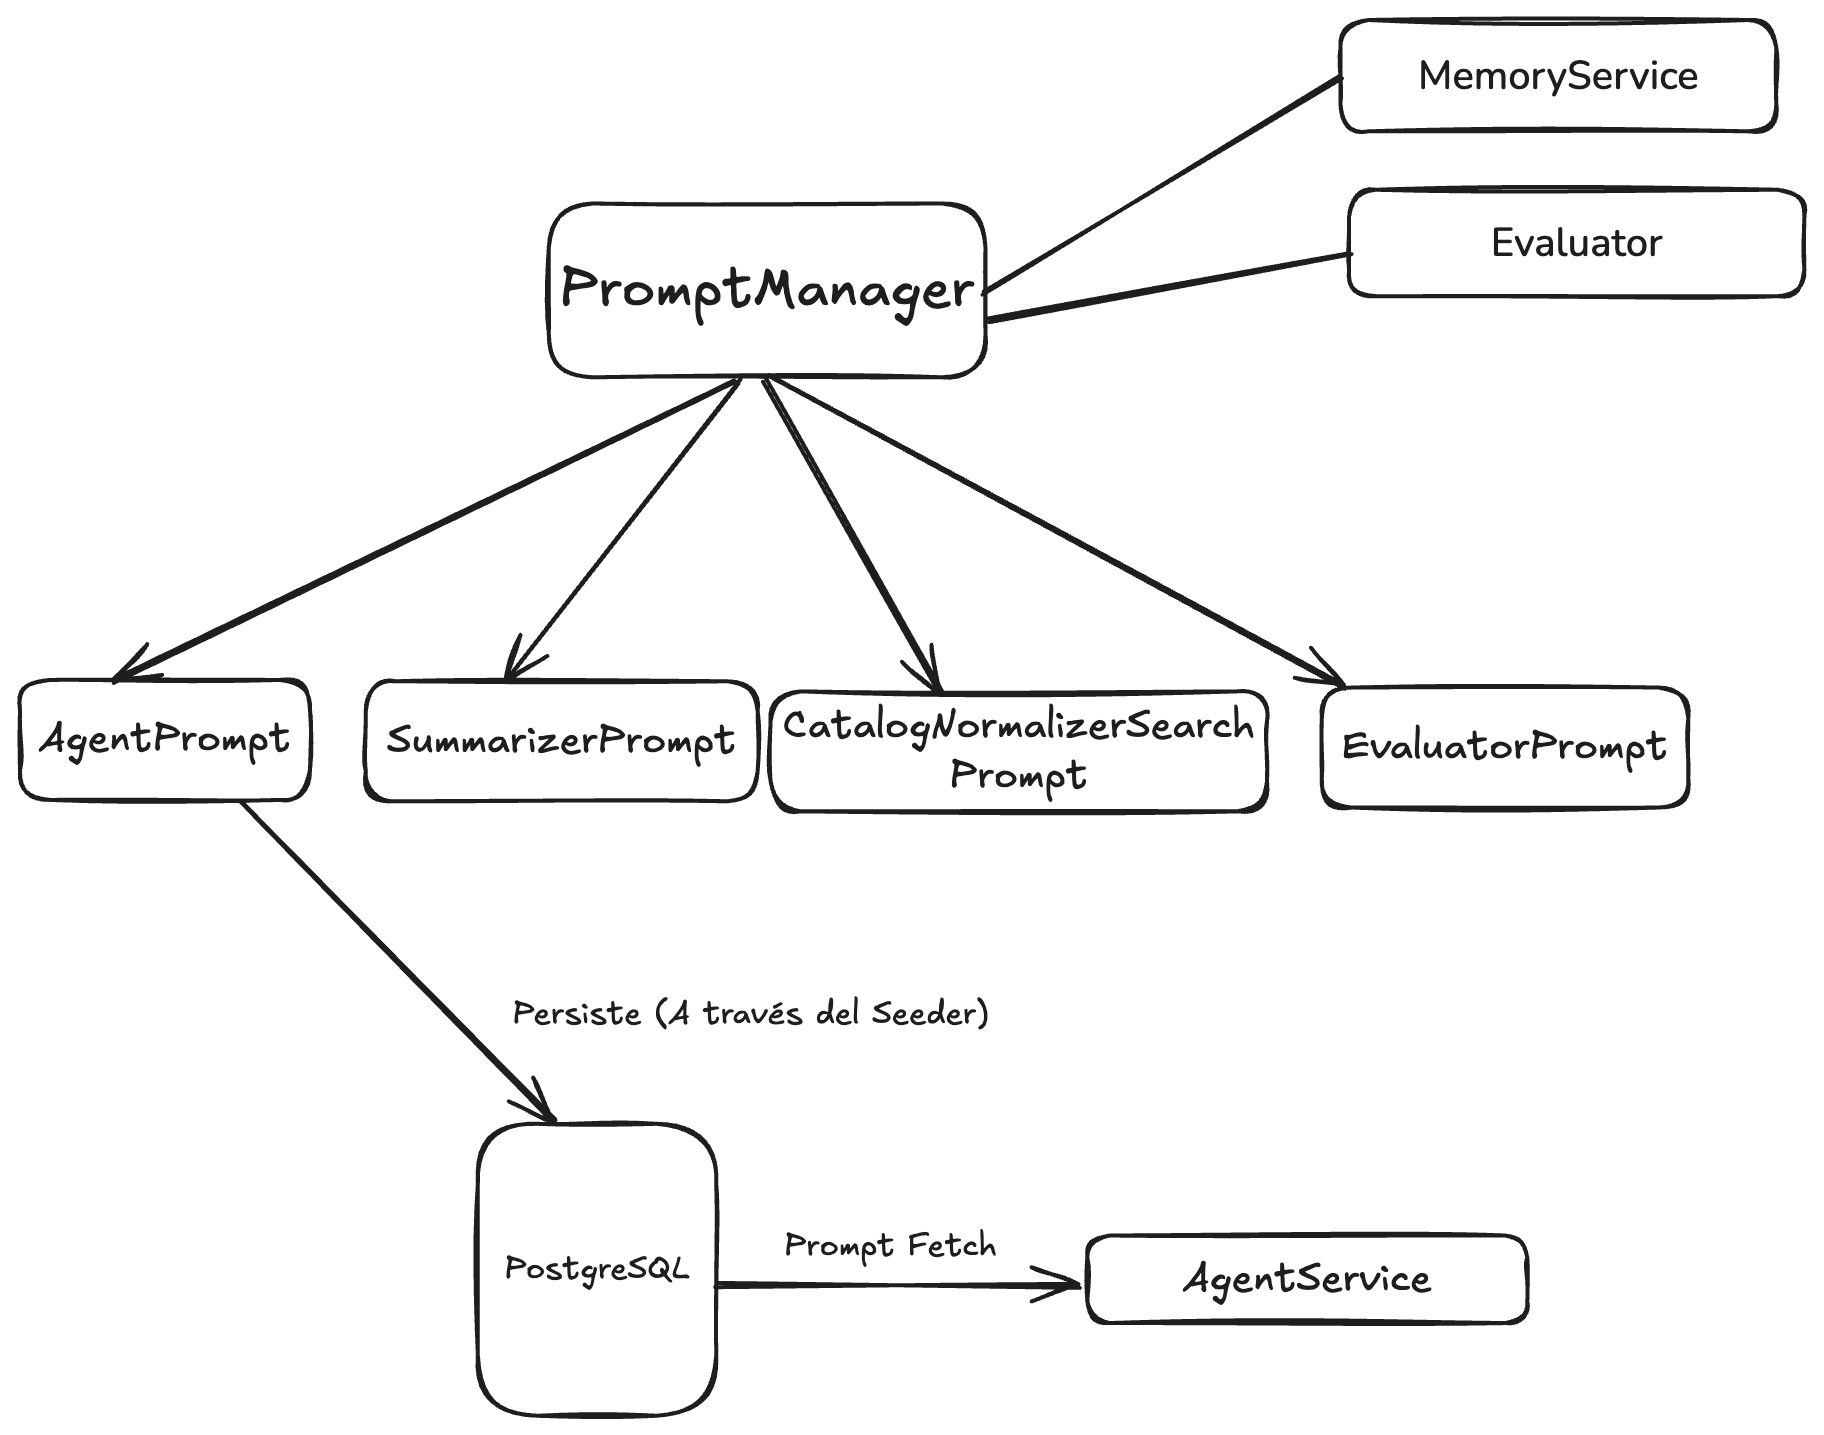
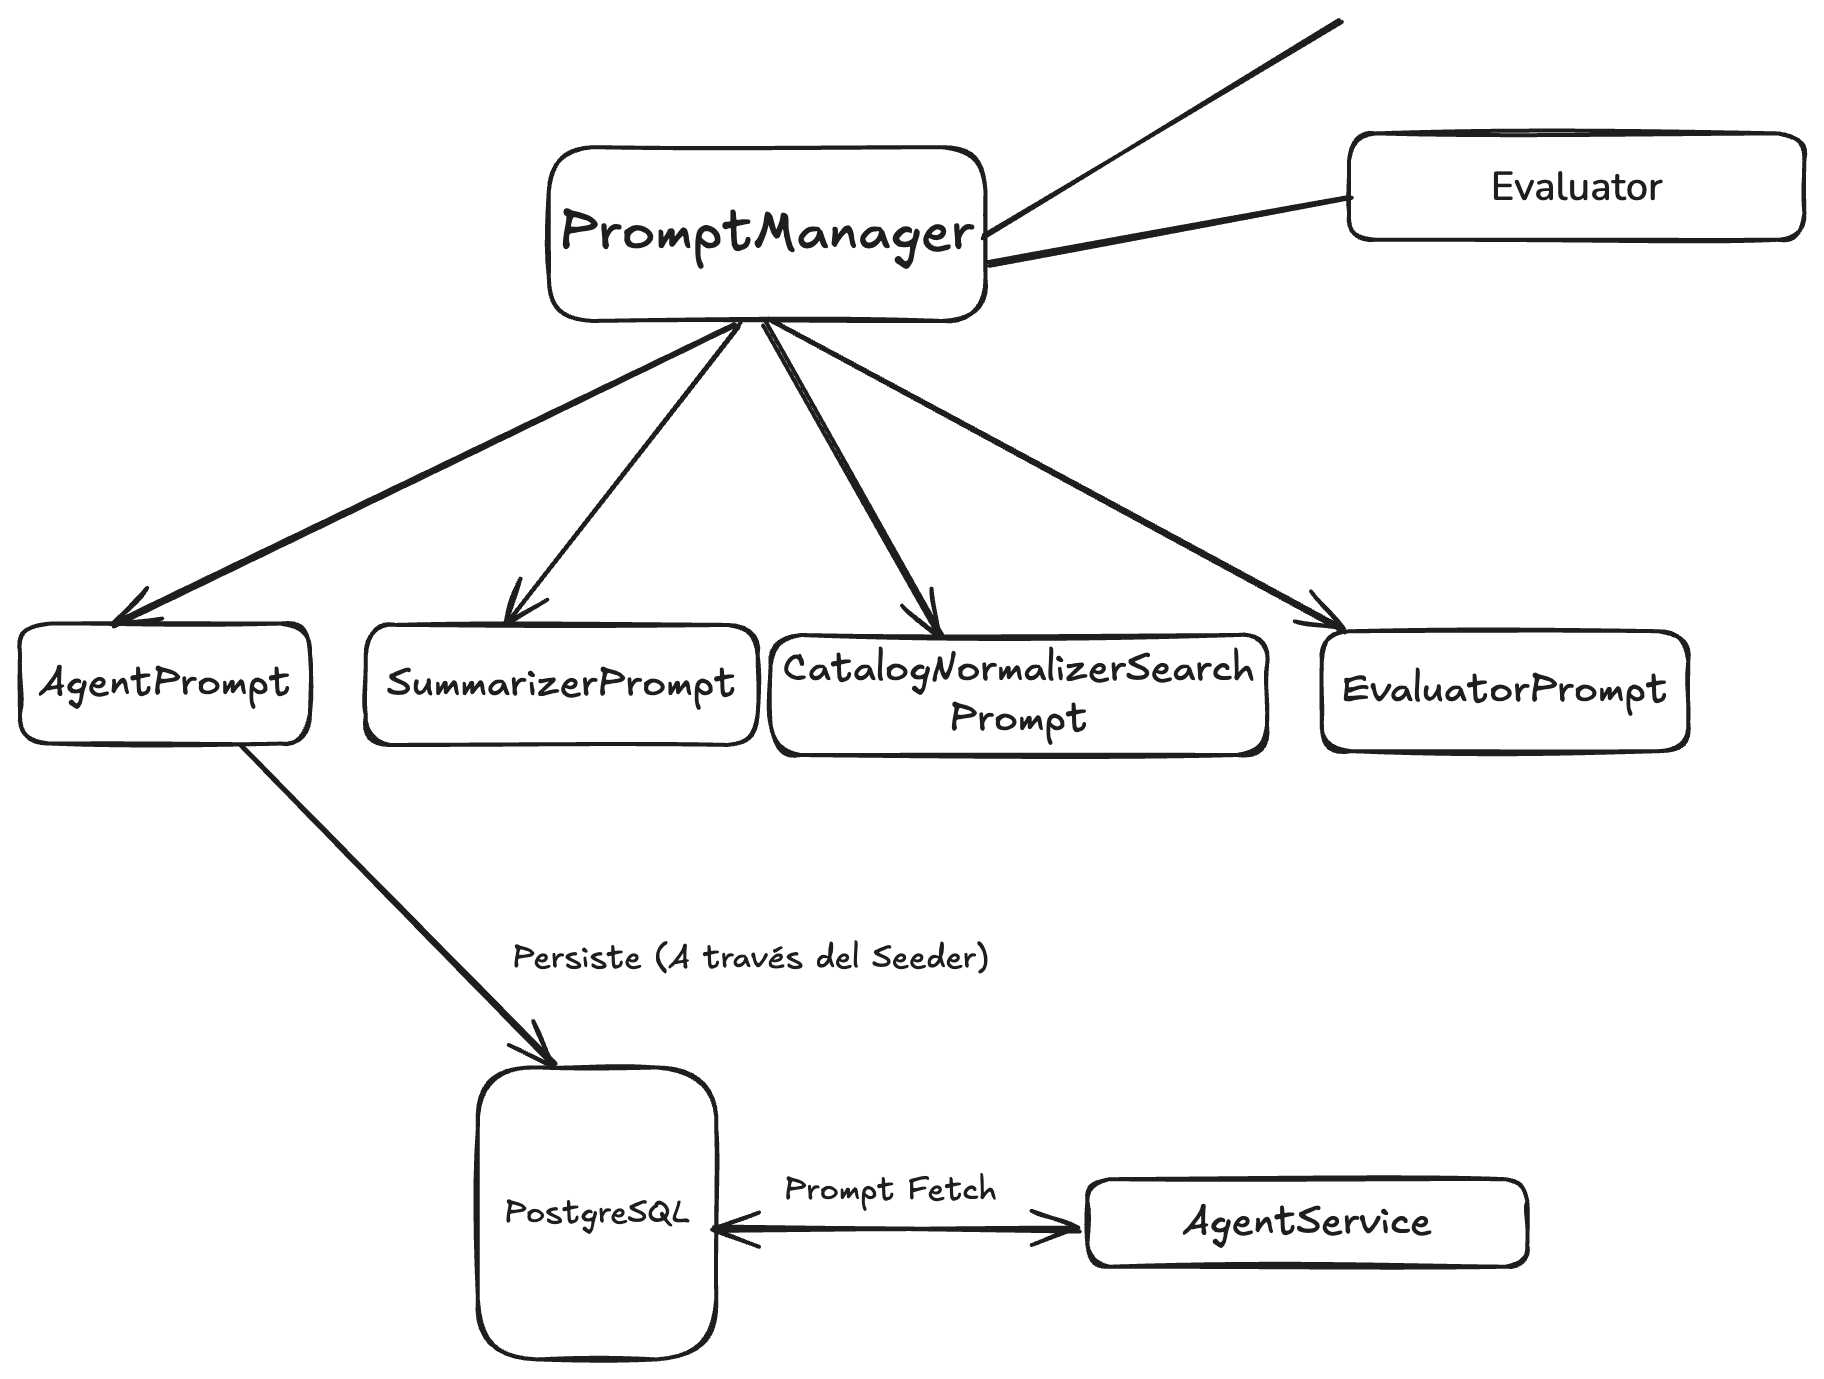
- update env.example - update docker-compose - update prompt doagrams

diff --git a/kavak_chatbot/scripts/kavak_info_ingestion.py b/kavak_chatbot/scripts/kavak_info_ingestion.py
@@ -59,8 +59,9 @@ def run_kavak_info_ingestion():
         except Exception as e:
             logger.error(f"Error storing chunk {i+1}: {e}")
 
-    logger.info("Extraction complete!")
+    print("Extraction complete!")
 
     # Display summary
     all_records = kavak_service.get_all_kavak_info()
     logger.info(f"Total records in database: {len(all_records)}")
+    print(f"Total records in database: {len(all_records)}")

diff --git a/README.md b/README.md
@@ -15,13 +15,36 @@ A continuación presento los diagramas principales que describen la arquitectura
 ![Prompts Diagram](diagrams/prompts_diagram.png)
 
 
+## Variables de Entorno (env.example)
+
+Asegúrate de completar el archivo `.env` con las siguientes variables (puedes copiarlo desde `env.example`):
+
+| Variable                   | Descripción                                                      |
+|----------------------------|------------------------------------------------------------------|
+| LOG_LEVEL                  | Nivel de log (ej: INFO, DEBUG)                                   |
+| DATABASE_URL               | Cadena de conexión a la base de datos PostgreSQL                 |
+| OPENAI_API_KEY             | API Key de OpenAI para el modelo LLM                             |
+| TWILIO_ACCOUNT_SID         | SID de cuenta Twilio (para WhatsApp)                             |
+| TWILIO_AUTH_TOKEN          | Token de autenticación Twilio                                    |
+| TWILIO_WHATSAPP_NUMBER     | Número de WhatsApp de Twilio                                     |
+| MAX_USER_QUERY_TOKENS      | Máximo de tokens por consulta de usuario                         |
+| DEFAULT_KAVAK_AGENT_ID     | UUID del agente comercial por defecto                            |
+| DEFAULT_DEMO_PHONE_NUMBER  | Teléfono demo para pruebas                                       |
+| CHAT_ASSISTANT_MODEL       | Modelo de OpenAI a utilizar por el agente comercial (ej: gpt-4o) |
+
+Completa los valores según tu entorno y credenciales.
+
+## Roadmap y Backlog
+
+Como parte de los entregables se puede el roadmap y backlog del proyecto en el siguiente documento:
+
+[Roadmap y Backlog (PDF)](Roadmap.pdf)
 
 ## Requisitos
 
 - Docker
 - Docker Compose
-- Python 3.8+ (para desarrollo local)
-- Click (incluido en requirements.txt)
+- Python 3.12+ (para desarrollo local)
 
 ## Instalación
 
@@ -47,7 +70,7 @@ docker-compose up --build -d
 ```
 
 
-### 4. Inicializar la base de datos y cargar agente de ventas.
+### 4. Inicializar la base de datos y cargar agente comercial.
 
 Ejecuta los siguientes comandos dentro del contenedor de la API
 
@@ -55,13 +78,13 @@ Ejecuta los siguientes comandos dentro del contenedor de la API
 # Crear tablas de la base de datos
 docker-compose exec api python setup.py database
 
-# Cargar datos iniciales (agente comercial de ventas)
+# Cargar datos iniciales (agente comercial de Kavak)
 docker-compose exec api python setup.py seeders
 ```
 
 ### 5. Generar embeddings y cargar información de Kavak
 
-Para generar los embeddings de los autos y cargar la información de Kavak:
+Para generar los embeddings de los autos y cargar la información/Propuesta de valor de Kavak:
 
 ```bash
 # Generar embeddings de autos desde CSV
@@ -80,11 +103,22 @@ La API estará disponible en: http://localhost:8000/api/v1
 - **Health Check**: http://localhost:8000/v1/health
 - **Información de la API**: http://localhost:8000/
 
+## Modo Interactivo: Ejecutar el Chat
+
+Para poder interactuar con el agente comercial de Kavak ya sea para desarrollo o prueba se puede ejecutar de manera local usando el script `chat.py`.
+
+### ¿Cómo ejecutarlo?
+
+
+
+```bash
+docker-compose exec api python interactive_chat.py
+```
+
+
 ## Documentación de la API
 
 ### Endpoints Principales
-
-> **Nota**: La API incluye endpoints para gestión completa de sesiones, incluyendo listar todas las sesiones, obtener mensajes específicos y manejar webhooks de WhatsApp.
 
 #### 1. Enviar Mensaje al Agente
 **POST** `/api/v1/chat/send-message`
@@ -196,18 +230,6 @@ Para ver la documentación completa de todos los endpoints disponibles:
 - **ReDoc**: http://localhost:8000/redoc
 
 
-## Modo Interactivo: Ejecutar el Chat
-
-Para poder interactuar con el agente conversacional de Kavak ya sea para desarrollo o prueba se puede ejecutar de manera local usando el script `chat.py`.
-
-### ¿Cómo ejecutarlo?
-
-
-
-```bash
-docker-compose exec api python interactive_chat.py
-```
-
 Vas a ver un prompt donde puedes escribir mensajes y recibir respuestas del agente. Usa `/quit` o `/exit` para salir del chat.
 
 Esto eliminará todas las tablas y las creará nuevamente desde cero.
@@ -225,6 +247,7 @@ docker-compose exec api python setup.py --help
 # Comandos de base de datos
 docker-compose exec api python setup.py database              # Crear tablas.
 docker-compose exec api python setup.py database --recreate  # Recrear todas las tablas.
+docker-compose exec api python seeders.py
 
 # Generar embeddings y datos
 docker-compose exec api python setup.py generate-car-embeddings  # Popular la tabla de autos.
@@ -236,14 +259,7 @@ docker-compose exec api python setup.py generate-car-embeddings --help
 docker-compose exec api python setup.py kavak-info-ingestion --help
 ```
 
-### Otros comandos útiles
-
-- Ejecutar seeders manualmente:
-  ```bash
-  docker-compose exec api python seeders.py
-  ```
-
-## Soporte
+## Troubleshooting
 
 Si tenes problemas:
 
